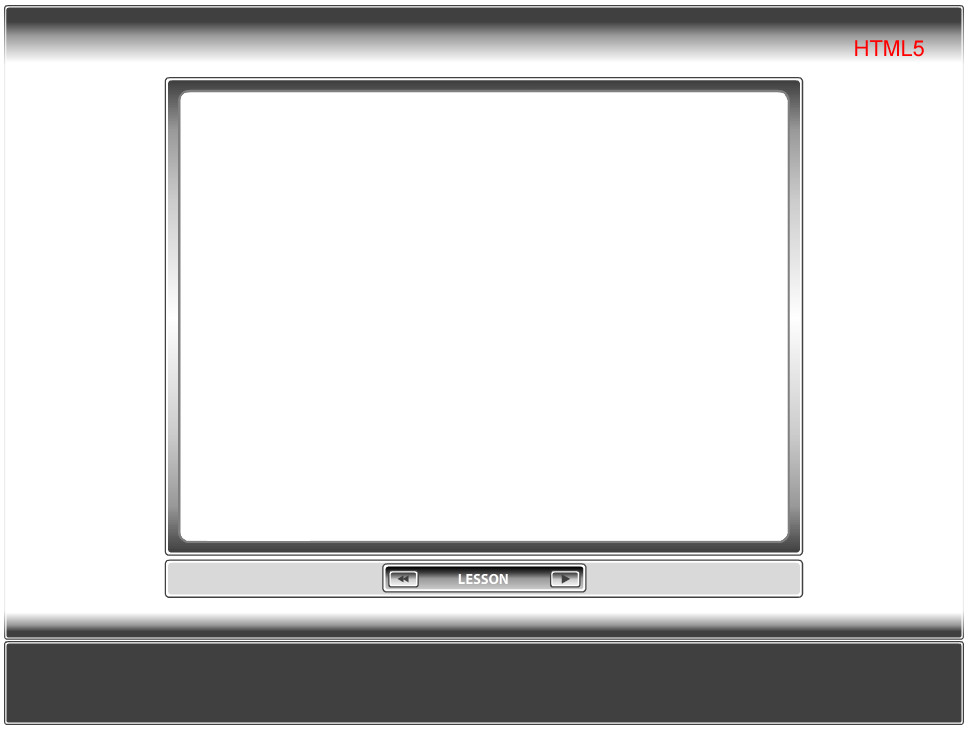
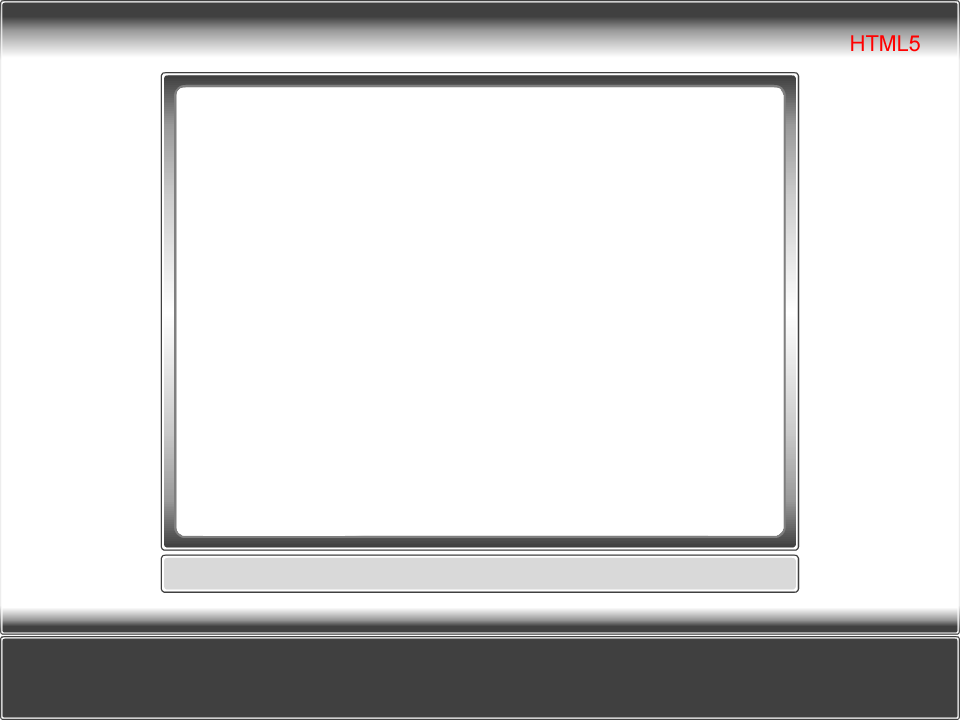
added title area, subtitle area, pause button

Changed region(s): [[0.0, 0.0915, 1.0, 1.0], [0.0, 0.0, 1.0, 0.0915]]

diff --git a/index.html b/index.html
@@ -15,6 +15,7 @@
 
         <link rel="stylesheet" src="//normalize-css.googlecode.com/svn/trunk/normalize.css" />
         <link rel="stylesheet" href="css/main.css" />
+		<link href='http://fonts.googleapis.com/css?family=Open+Sans:700' rel='stylesheet' type='text/css'>
         <script src="js/vendor/modernizr2_8_3.js"></script>
 		
 		<!--[if IE]>
@@ -34,23 +35,31 @@
 
 <!-- BEGIN -->
 	
-		<div id="master_container">
-		<header> Lottery Learning Link - no Flash!</header>
-		<button onclick="playPause()">Play/Pause</button> 	
+<div id="master_container">
+
+		
 				
 				 		
 			
-				 <div id="screen_container"/>
-						
-						<video id="video1" width="620" height="470" autoplay>
-						  <source src="videos/video.mp4" type="video/mp4">
-						  <source src="videos/video.ogg" type="video/ogg">
-						  Your browser does not support HTML5 video.
-						</video>
+<div id="screen_container"/>						
+	<video id="video1" width="620" height="470" autoplay>
+		<source src="videos/video.mp4" type="video/mp4">
+		<source src="videos/video.ogg" type="video/ogg">
+			Your browser does not support HTML5 video.
+	</video>
+</div><!--Screen container-->
 
-			 
-				</div>/*screen container*/
-			<div id="chrome_container">	</div>	 
+
+<div id="chrome_container">		 
+	<button id="pause" onclick="playPause()">Play/Pause</button> 				
+<div id="title">LOTTERY LEARNING LINK</div>			
+</div>		<!--chrome container-->	
+
+<div id="subtitle_container">
+These are the subtitles, which will use the time nodes in the XML to populate and update.
+I plan on using the PHASER.IO framework.
+</div>
+		
 			
 			
 						<script> 
@@ -64,6 +73,6 @@
 						} 
 						</script>
 			
-		</div>/*master_container*/
+		</div><!--master_container-->
     </body>
     </html>

diff --git a/css/main.css b/css/main.css
@@ -1,6 +1,6 @@
 /*CSS STYLESHEET FOR LLL/NOFLASH*/
-#master_container
-{
+#master_container{
+	font-family:'Open Sans', sans-serif;
 	margin: 0 auto;
 	width: 1400px;
 	height: 1080px;
@@ -13,8 +13,7 @@ section{
 	height:600px;
 }
 
-#chrome_container
-{
+#chrome_container{
 
 	height:768px;
 	width: 1024px;
@@ -24,28 +23,46 @@ section{
 	background: url('../images/chrome.png') no-repeat; 
 }
 
-#screen_container
-{
+#screen_container{
 	position:relative;
-	top:80px;
-	left:180px;
+	top:130px;
+	left:170px;
 	z-index:99;
 }
 
 
 
 
-#subtitle_container
-{
+#subtitle_container{
+	position:absolute;
+	z-index:100;
+	height: 40px;
+	width:900px;
+	color:white;
+	top:700px;
+	left:20px;
 }
 
-#coach_window
-{
+#coach_window{
+
 }
 
-#title
-{
-	border: 17px solid #1725BF;
+#title{
+	z-index:100;
+	position:absolute;
+	top:30px;
+	left:30px;
+	font-size:28px;
 	height: 10px;
 	width: 500px;
+	color:black;
 }
+
+#pause{
+	z-index:100;
+	position:absolute;
+	top:560px;
+	left:440px;
+}
+
+
